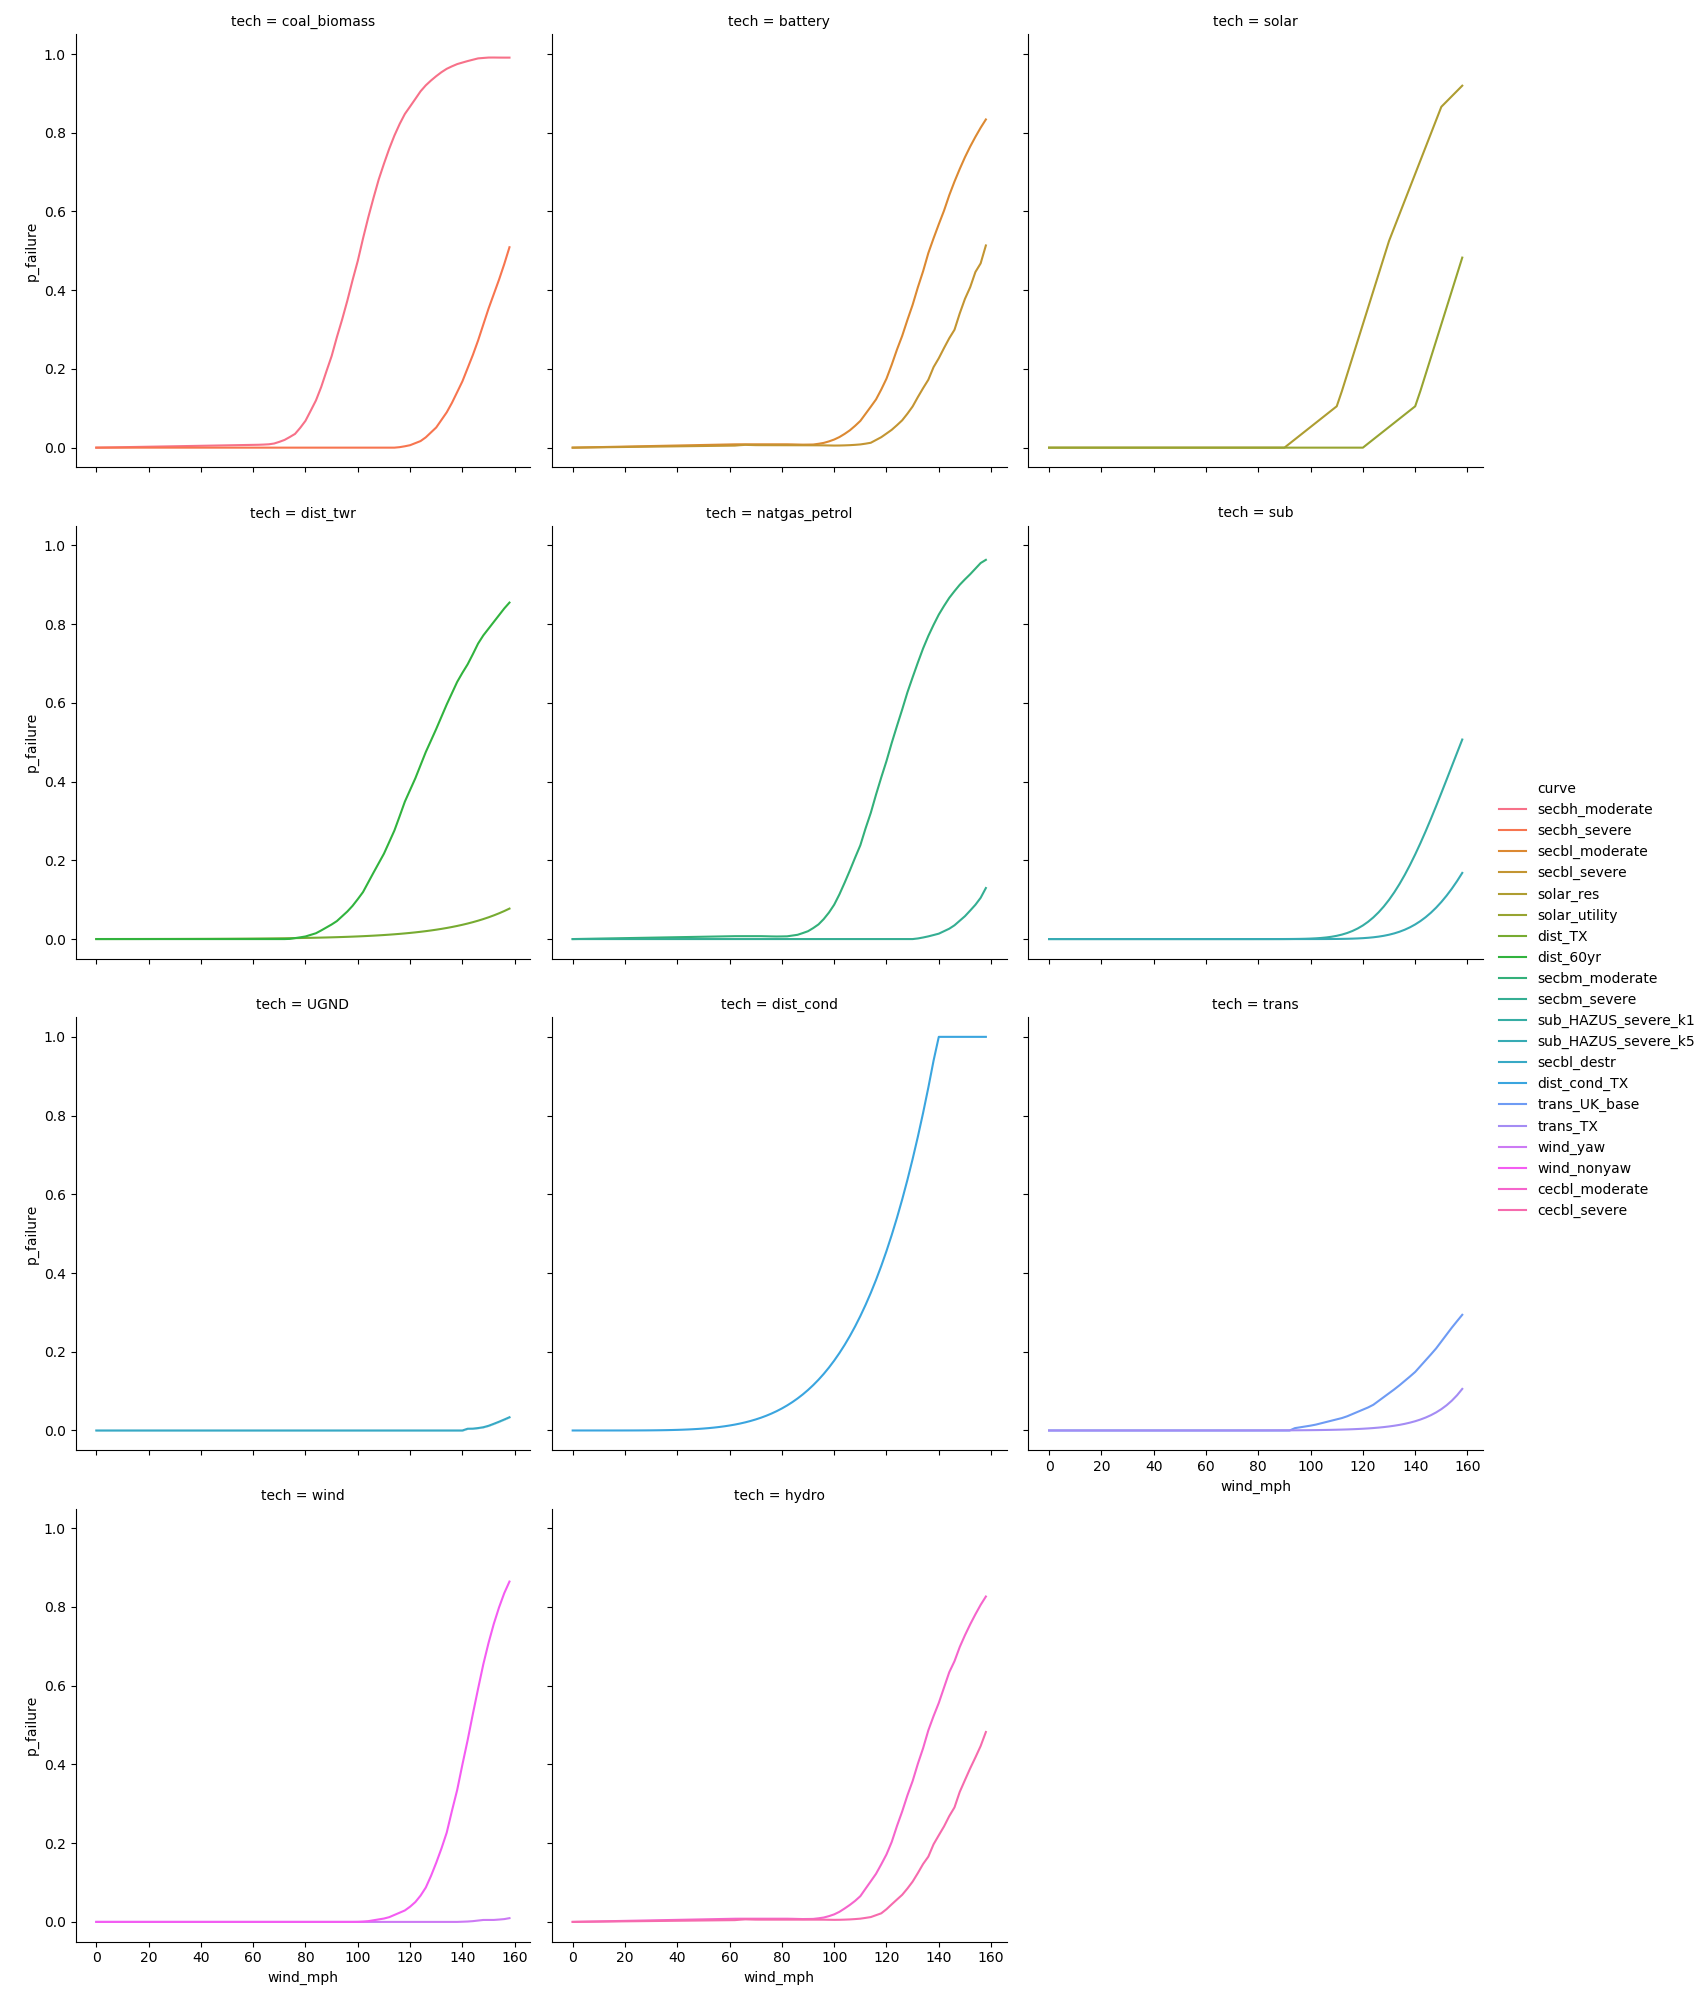
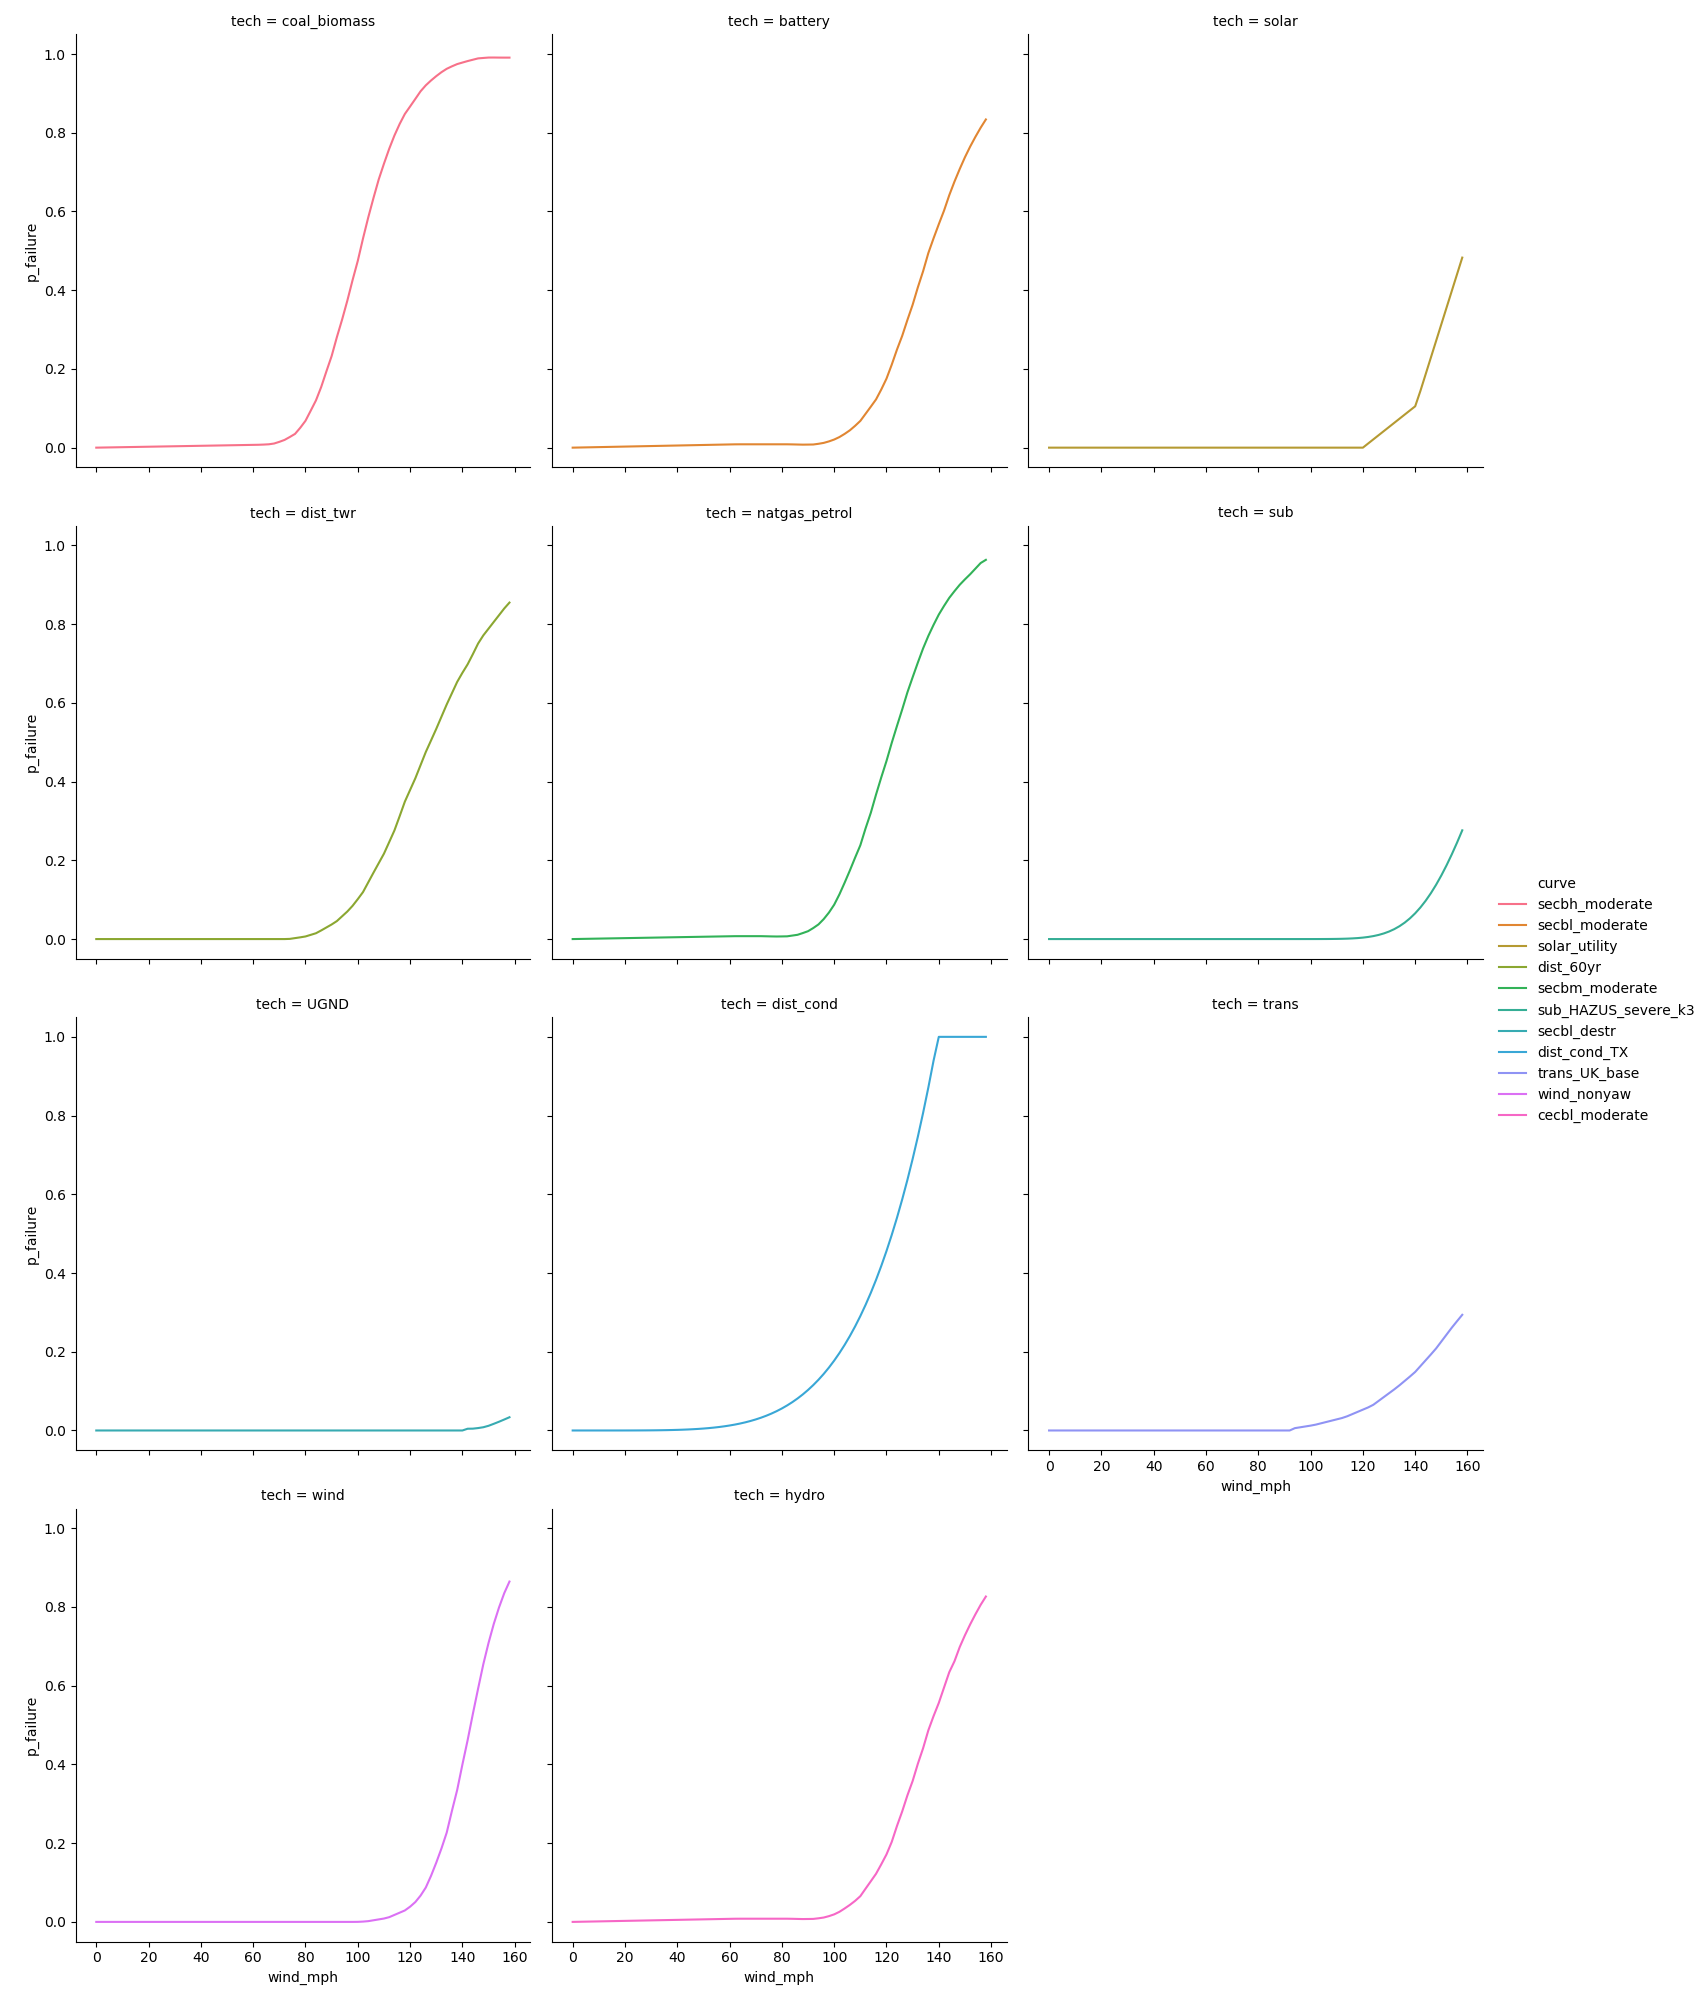
updated scenarios and processing

Changed region(s): [[0.8694, 0.403, 0.9936, 0.62], [0.8073, 0.434, 0.8383, 0.465]]

diff --git a/examples/puerto_rico_stoch/fragility_curves/select_fragility_curves.py b/examples/puerto_rico_stoch/fragility_curves/select_fragility_curves.py
@@ -10,12 +10,12 @@ import temoatools as tt
 # =============================================================================#
 
 # Fragility Curves to compare
-curves = {"trans": ["trans_UK_base", "trans_TX"], "sub": ["sub_HAZUS_severe_k1", "sub_HAZUS_severe_k5"],
+curves = {"trans": ["trans_UK_base",], "sub": ["sub_HAZUS_severe_k3", ],
         "dist_cond": ["dist_cond_TX"],
-          "dist_twr": ["dist_TX", "dist_60yr"], "wind": ["wind_yaw", "wind_nonyaw"],
-          "solar": ["solar_res", "solar_utility"], "coal_biomass": ["secbh_moderate", "secbh_severe"],
-          "natgas_petrol": ["secbm_moderate", "secbm_severe"], "battery": ["secbl_moderate", "secbl_severe"],
-          "hydro": ["cecbl_moderate", "cecbl_severe"], "UGND":["secbl_destr","secbl_destr"]}
+          "dist_twr": ["dist_60yr"], "wind": [ "wind_nonyaw"],
+          "solar": ["solar_utility"], "coal_biomass": ["secbh_moderate",],
+          "natgas_petrol": ["secbm_moderate", ], "battery": ["secbl_moderate",] ,
+          "hydro": ["cecbl_moderate",], "UGND":["secbl_destr"]}
 
 group1 = "T&D"
 group2 = "Renew"
@@ -59,16 +59,16 @@ plt.savefig("fragility_curves_by_tech.png", DPI=1000)
 # ================================#
 
 # best and worst case fragility curves for each group
-curves_best = {"trans": "trans_TX", "sub": "sub_HAZUS_severe_k5", "dist_cond": "dist_cond_TX",
-               "dist_twr": "dist_TX", "wind": "wind_yaw", "solar": "solar_utility",
-               "coal_biomass": "secbh_severe",
-               "natgas_petrol": "secbm_severe",
-               "battery": "secbl_severe",
-               "hydro": "cecbl_severe", "UGND":"secbl_severe"}
+# curves_best = {"trans": "trans_TX", "sub": "sub_HAZUS_severe_k5", "dist_cond": "dist_cond_TX",
+#                "dist_twr": "dist_TX", "wind": "wind_yaw", "solar": "solar_utility",
+#                "coal_biomass": "secbh_severe",
+#                "natgas_petrol": "secbm_severe",
+#                "battery": "secbl_severe",
+#                "hydro": "cecbl_severe", "UGND":"secbl_severe"}
 
-curves_worst = {"trans": "trans_UK_base",
-                "sub": "sub_HAZUS_severe_k1", "dist_cond": "dist_cond_TX", "dist_twr": "dist_60yr", "wind": "wind_nonyaw",
-                "solar": "solar_res",
+curves = {"trans": "trans_UK_base",
+                "sub": "sub_HAZUS_severe_k3", "dist_cond": "dist_cond_TX", "dist_twr": "dist_60yr", "wind": "wind_nonyaw",
+                "solar": "solar_utility",
                 "coal_biomass": "secbh_moderate",
                 "natgas_petrol": "secbm_moderate",
                 "battery": "secbl_moderate",
@@ -78,7 +78,7 @@ curves_worst = {"trans": "trans_UK_base",
 
 cols = ["tech", "curve", "group", "wind_mph", "p_failure"]
 df_best = pd.DataFrame(columns=cols)
-df_worst = pd.DataFrame(columns=cols)
+# df_worst = pd.DataFrame(columns=cols)
 wind_mph = np.arange(0, 160, 2)
 
 # for curve_best_key,curve_worst_key in zip(curves_best, curves_worst):
@@ -100,7 +100,7 @@ wind_mph = np.arange(0, 160, 2)
 #         s["p_failure"] = p_worst
 #         df_worst = df_worst.append(s, ignore_index=True)
 
-curves = curves_best
+# curves = curves_best
 for curve_key in curves:
     p_failure = tt.fragility(wind_mph, curve=curves[curve_key])
 
@@ -113,22 +113,22 @@ for curve_key in curves:
         s["p_failure"] = p
         df_best = df_best.append(s, ignore_index=True)
 
-curves = curves_worst
-for curve_key in curves:
-    p_failure = tt.fragility(wind_mph, curve=curves[curve_key])
-
-    for w, p in zip(wind_mph, p_failure):
-        s = pd.Series()
-        s["tech"] = curve_key
-        s["group"] = groups[curve_key]
-        s["wind_mph"] = w
-        s["curve"] = curves[curve_key]
-        s["p_failure"] = p
-        df_worst = df_worst.append(s, ignore_index=True)
+# curves = curves_worst
+# for curve_key in curves:
+#     p_failure = tt.fragility(wind_mph, curve=curves[curve_key])
+#
+#     for w, p in zip(wind_mph, p_failure):
+#         s = pd.Series()
+#         s["tech"] = curve_key
+#         s["group"] = groups[curve_key]
+#         s["wind_mph"] = w
+#         s["curve"] = curves[curve_key]
+#         s["p_failure"] = p
+#         df_worst = df_worst.append(s, ignore_index=True)
 
 sns.relplot(x="wind_mph", y="p_failure", hue="tech", col="group", col_wrap=3, data=df_best, kind="line")
 plt.savefig("fragility_curves_by_group_best.png", DPI=1000)
 
 
-sns.relplot(x="wind_mph", y="p_failure", hue="tech", col="group", col_wrap=3, data=df_worst, kind="line")
-plt.savefig("fragility_curves_by_group_worst.png", DPI=1000)
+# sns.relplot(x="wind_mph", y="p_failure", hue="tech", col="group", col_wrap=3, data=df_worst, kind="line")
+# plt.savefig("fragility_curves_by_group_worst.png", DPI=1000)

diff --git a/examples/puerto_rico_stoch/write_stoch_input_files.py b/examples/puerto_rico_stoch/write_stoch_input_files.py
@@ -4,7 +4,10 @@ import shutil
 import temoatools as tt
 
 # Baseline databases to use
-dbs = ["A.sqlite", "B.sqlite", "C.sqlite", "D.sqlite"]
+dbs = ["WA.sqlite", "WB.sqlite", "WC.sqlite", "WD.sqlite",
+       "XA.sqlite", "XB.sqlite", "XC.sqlite", "XD.sqlite",
+       "YA.sqlite", "YB.sqlite", "YC.sqlite", "YD.sqlite",
+       "ZA.sqlite", "ZB.sqlite", "ZC.sqlite", "ZD.sqlite"]
 
 # model years
 years = [2016, 2021, 2026, 2031, 2036]
@@ -25,17 +28,13 @@ techs = {'LOCAL': "inf_stiff", 'UGND_TRANS': "UGND", 'UGND_DIST': "UGND", 'TRANS
          'EX_OIL_TYPE2': "natgas_petrol", 'EX_OIL_TYPE3': "natgas_petrol", 'EX_MSW_LF': "natgas_petrol",
          'EX_HYDRO': "hydro", 'EC_BATT': "battery", 'ED_BATT': "battery"}
 
-# best and worst case fragility curves for each group
-curves_best = {"inf_stiff": "inf_stiff","trans": "trans_TX", "sub": "sub_HAZUS_severe_k5", "dist_cond": "dist_cond_TX",
-               "dist_twr": "dist_TX", "wind": "wind_yaw", "solar": "solar_utility",
-               "coal_biomass": "secbh_severe",
-               "natgas_petrol": "secbm_severe",
-               "battery": "secbl_severe",
-               "hydro": "cecbl_severe", "UGND":"secbl_severe"}
-
-curves_worst = {"inf_stiff": "inf_stiff","trans": "trans_UK_base",
-                "sub": "sub_HAZUS_severe_k1", "dist_cond": "dist_cond_TX", "dist_twr": "dist_60yr", "wind": "wind_nonyaw",
-                "solar": "solar_res",
+curves = {"inf_stiff": "inf_stiff",
+                "trans": "trans_UK_base",
+                "sub": "sub_HAZUS_severe_k3",
+                "dist_cond": "dist_cond_TX",
+                "dist_twr": "dist_60yr",
+                "wind": "wind_nonyaw",
+                "solar": "solar_utility",
                 "coal_biomass": "secbh_moderate",
                 "natgas_petrol": "secbm_moderate",
                 "battery": "secbl_moderate",
@@ -51,28 +50,15 @@ except:
     os.mkdir(stochdir)
 os.chdir(stochdir)
 
-n_cases = 2#4
+n_cases = 1
 for case in range(n_cases):
-
-    # historical + 'best" fragility curves
+    # historical probabilities
     if case == 0:
         probabilities = probabilities_hist
-        curves = curves_best
 
-    # historical + 'worst" fragility curves
+    # climate change probabilities
     elif case == 1:
-        probabilities = probabilities_hist
-        curves = curves_worst
-
-    # climate change + 'best" fragility curves
-    elif case == 2:
         probabilities = probabilities_climate_change
-        curves = curves_best
-
-    # climate change + 'worst" fragility curves
-    else:  # (case==3)
-        probabilities = probabilities_climate_change
-        curves = curves_worst
 
     # Iterate through each database for each case
     for db in dbs:
